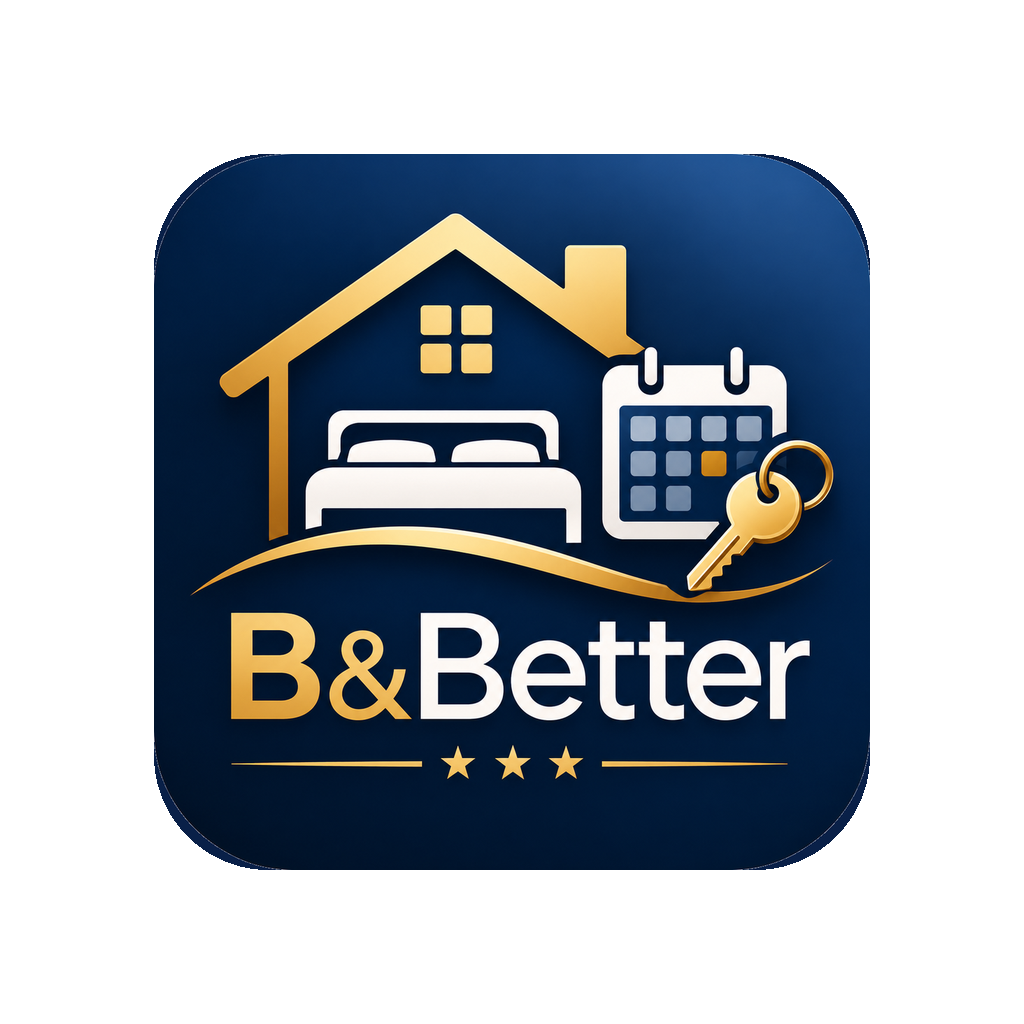
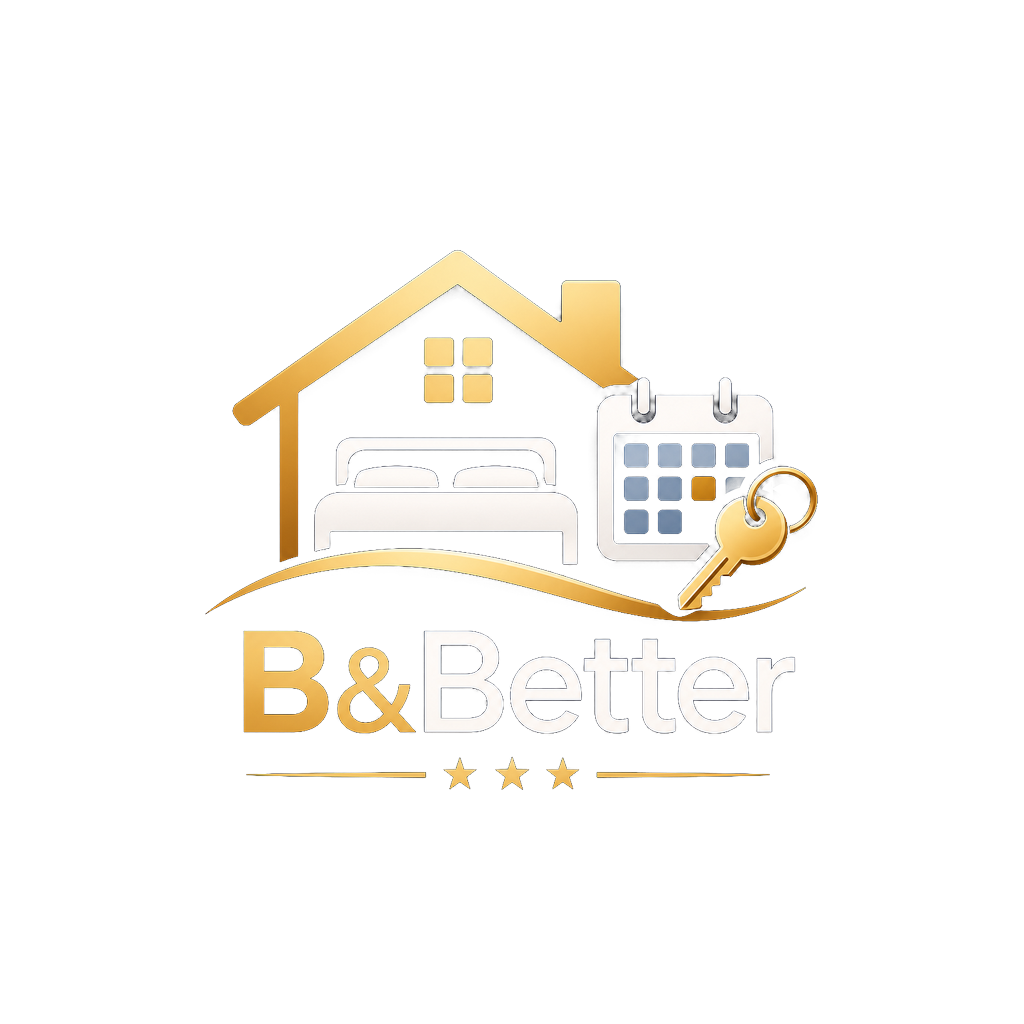
0.2.5: icona adattiva Android senza cornice e a misura
Primo piano solo con il disegno (trasparente) dentro la zona sicura,
sfondo blu pulito, icona legacy a tutto quadrato.

Claude-Session: https://claude.ai/code/session_01W491hdtZUvorpu9ULFGGyb

diff --git a/www/index.html b/www/index.html
@@ -3,7 +3,7 @@
 <head>
 <meta charset="utf-8">
 <script>
-var APPV = '0.2.4', NATIVE = 1;
+var APPV = '0.2.5', NATIVE = 2;
 var RAW = 'https://raw.githubusercontent.com/wolve666/b-and-better/main/';
 var APK_URL = 'https://github.com/wolve666/b-and-better/releases/latest/download/BandBetter.apk';
 function vcmp(a, b){ a = String(a).split('.').map(Number); b = String(b).split('.').map(Number);
